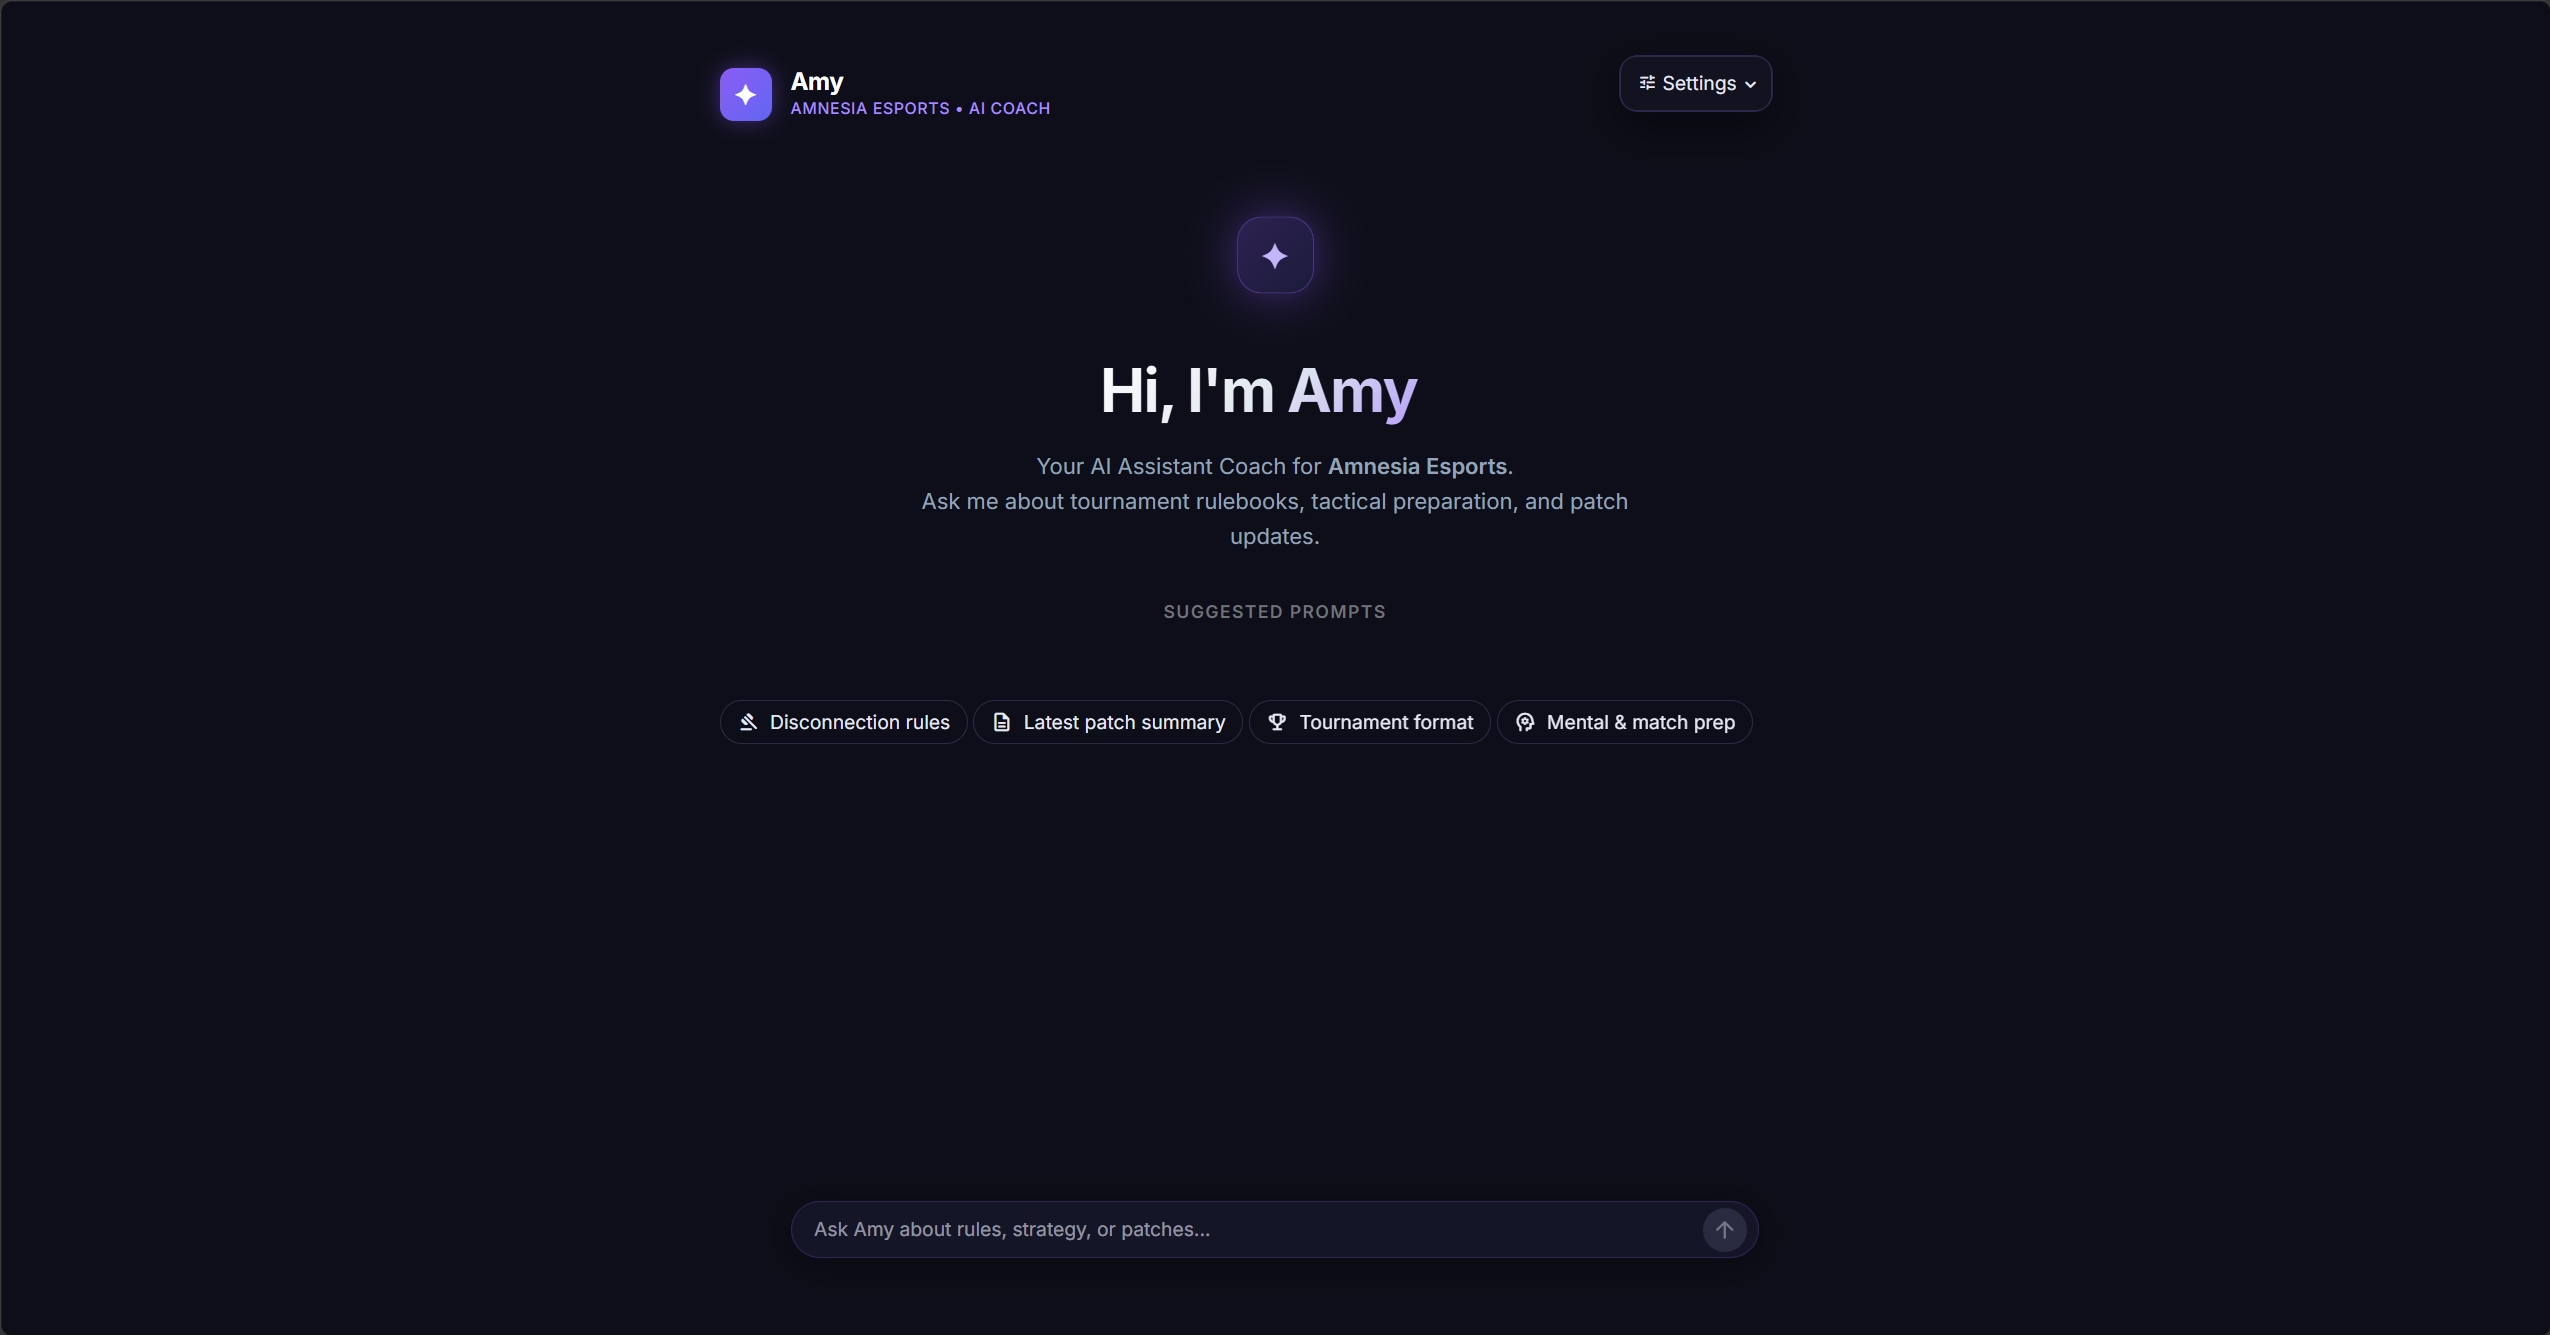
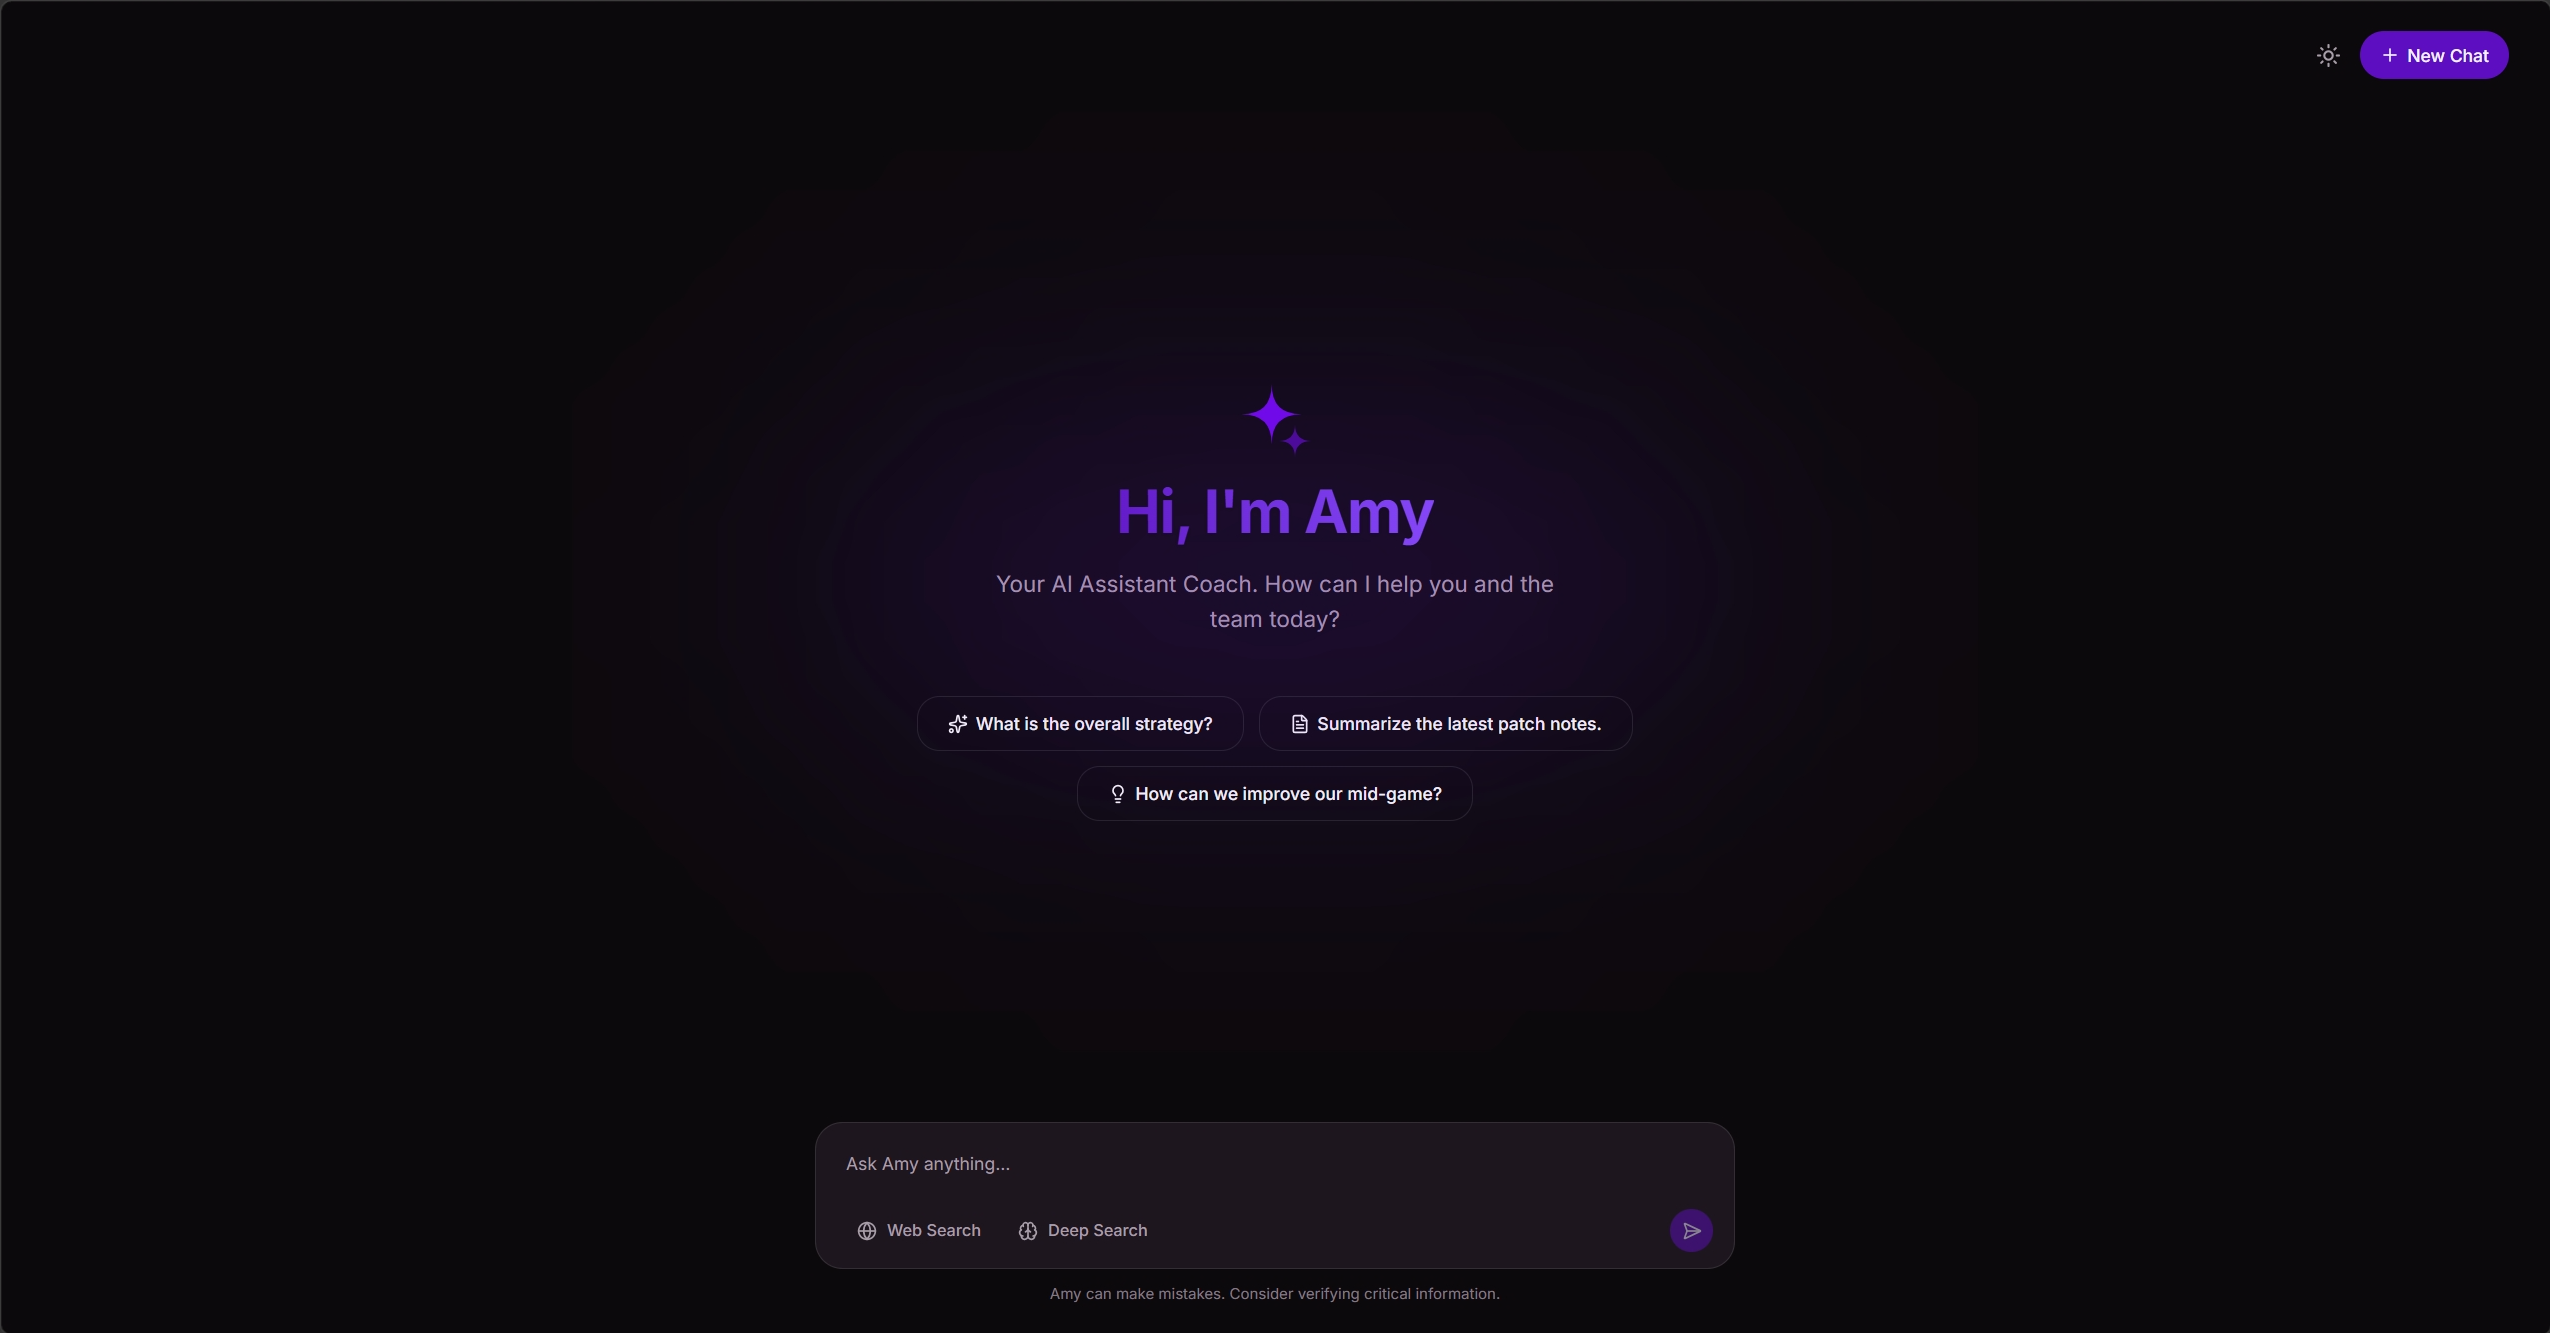
docs(readme): update documentation with new architecture and GCP deployment guide

diff --git a/README.md b/README.md
@@ -4,9 +4,9 @@
 
 Amy is an internal RAG-powered Assistant Coach for Amnesia Esports. It connects to the team's live documents (tournament rules, patch notes, tactical playbooks) and provides accurate, cited answers to help players and coaching staff prepare for competitive play.
 
-Built with **FastAPI**, **LlamaIndex**, **Streamlit**, and **Google Gemini**.
+Built with **FastAPI**, **LlamaIndex**, **React (Vite)**, and **Google Gemini**.
 
-<!-- Replace the path below with an actual screenshot of the chat interface -->
+<!-- Replace the path below with an actual screenshot of the new React chat interface -->
 ![Amy Chat Interface](docs/assets/app_screenshot.png)
 
 ---
@@ -25,12 +25,11 @@ Built with **FastAPI**, **LlamaIndex**, **Streamlit**, and **Google Gemini**.
 
 ## Features
 
-- **Retrieval-Augmented Generation (RAG)** -- Answers questions based strictly on the team's internal documents stored in a persistent vector database.
-- **Source Citations** -- Every answer includes exact references to the source files (e.g., `valorant_patch_notes_9_04.md`), making it easy to verify information.
-- **Optional Google Search Grounding** -- When enabled by the user, Amy can supplement document-based answers with live web results for questions that go beyond the local knowledge base.
-- **Esports-Tuned System Prompt** -- The assistant is configured to behave as a professional esports coach: precise, direct, and scoped exclusively to the gaming domain.
-- **Cloud-Native Architecture** -- Dockerized with a multi-stage build, ready to deploy on Google Cloud Run as a stateless, auto-scaling service.
-- **Custom Chat Interface** -- A dark-themed Streamlit frontend with SVG-based avatars, suggestion chips, typing indicators, and a responsive layout.
+- **Retrieval-Augmented Generation (RAG)** — Answers questions based strictly on the team's internal documents stored in a persistent vector database.
+- **Source Citations** — Every answer includes exact references to the source files, making it easy to verify information.
+- **Web & Deep Search Grounding** — Integrated UI toggles for live Google Search grounding and Deep Search (`top_k=15`) for extensive research.
+- **Esports-Tuned System Prompt** — The assistant is configured to behave as a professional esports coach: precise, direct, and scoped exclusively to the gaming domain.
+- **Premium User Interface** — A modern, highly polished React frontend built with Tailwind CSS, shadcn/ui, and fluid micro-interactions designed to flagship standards.
 
 ---
 
@@ -39,13 +38,12 @@ Built with **FastAPI**, **LlamaIndex**, **Streamlit**, and **Google Gemini**.
 | Layer            | Technology                                                        |
 |------------------|-------------------------------------------------------------------|
 | Backend API      | FastAPI (Python 3.11+)                                            |
-| Frontend         | Streamlit                                                         |
+| Frontend         | React 18, Vite, Tailwind CSS, shadcn/ui                           |
 | LLM              | Google Gemini 3.5 Flash Lite (via `google-genai` SDK)             |
 | Embeddings       | Google `gemini-embedding-2`                                       |
 | Web Grounding    | Native Google Search Grounding (`types.GoogleSearch`)             |
 | Vector Database  | ChromaDB (persistent local storage)                               |
 | Orchestration    | LlamaIndex                                                        |
-| Containerization | Docker, Docker Compose, Google Cloud Run                          |
 
 ---
 
@@ -53,15 +51,16 @@ Built with **FastAPI**, **LlamaIndex**, **Streamlit**, and **Google Gemini**.
 
 ### Prerequisites
 
-- Python 3.11 or higher
-- A Google AI Studio API Key -- [get one here](https://aistudio.google.com/app/apikey)
+- **Python 3.11+**
+- **Node.js 18+** (for the frontend)
+- A Google AI Studio API Key — [get one here](https://aistudio.google.com/app/apikey)
 
-### 1. Setup Environment
+### 1. Setup Backend Environment
 
 ```bash
 # Clone the repository
 git clone https://github.com/Hevial/Amy-Team-Chatbot.git
-cd amy-team-chatbot
+cd Amy-Team-Chatbot
 
 # Create and activate a virtual environment
 python -m venv .venv
@@ -80,7 +79,7 @@ Copy the example environment file and insert your API key:
 cp .env.example .env
 ```
 
-Open `.env` and set `GOOGLE_API_KEY` to the value you obtained from Google AI Studio. All other defaults are production-ready out of the box.
+Open `.env` and set `GOOGLE_API_KEY` to the value you obtained from Google AI Studio.
 
 ### 3. Ingest Documents
 
@@ -90,56 +89,56 @@ The `data/samples/` directory ships with sample rulebooks and patch notes. To ge
 python -m scripts.ingest
 ```
 
-To add new documents, place Markdown, PDF, or plain text files in `data/samples/` and re-run the command with `--clear` to rebuild the index from scratch.
+### 4. Start the Application
 
-### 4. Run the Application
+Start the backend and frontend in two separate terminal windows.
 
-Start the backend and frontend in two separate terminal windows:
-
-**FastAPI Backend:**
-
+**Terminal 1: FastAPI Backend**
 ```bash
+# Ensure your virtual environment is active
 uvicorn src.main:app --reload --port 8080
 ```
+- API Docs: `http://localhost:8080/docs`
 
-| Resource     | URL                            |
-|--------------|--------------------------------|
-| Swagger Docs | http://localhost:8080/docs      |
-| Health Check | http://localhost:8080/health    |
-
-**Streamlit Frontend:**
-
+**Terminal 2: React Frontend**
 ```bash
-streamlit run frontend/app.py --server.port 8501
+cd frontend-web
+npm install
+npm run dev
 ```
-
-| Resource        | URL                         |
-|-----------------|-----------------------------|
-| Chat Interface  | http://localhost:8501        |
+- Web App: `http://localhost:5173` (or the port specified by Vite)
 
 ---
 
 ## Running with Docker
 
-Docker Compose starts both the API and the frontend, mounting the data and chroma directories for persistence.
+This project uses a **Unified Container Architecture** (Multi-stage build). The React frontend is compiled into static files and served directly by the FastAPI backend. This is the optimal architecture for production deployments.
 
 ```bash
 # Ensure your .env file exists with the GOOGLE_API_KEY set
 docker-compose up --build
 ```
 
-| Service   | URL                                       |
-|-----------|-------------------------------------------|
-| Frontend  | [http://localhost:8501](http://localhost:8501)   |
-| API Docs  | [http://localhost:8080/docs](http://localhost:8080/docs) |
+| Service          | URL                                       |
+|------------------|-------------------------------------------|
+| Web App & API    | [http://localhost:8080](http://localhost:8080)   |
+| API Docs         | [http://localhost:8080/docs](http://localhost:8080/docs) |
 
-> **Note:** Docker copies the source code into the image at build time. If you modify Python files, you need to rebuild with `docker-compose up --build`. For rapid iteration during development, running the backend and frontend natively (see above) is recommended.
+> **Note:** Docker copies the source code into the image at build time. For rapid iteration during development, running the backend and frontend natively (see Local Development above) is recommended.
 
 ---
 
 ## Google Cloud Run Deployment
 
-This project is optimized for deployment on Google Cloud Run as a scalable, serverless container.
+This project is optimized for deployment on **Google Cloud Run** as a scalable, serverless container, leveraging **Google Cloud Build** for the CI/CD pipeline.
+
+### Why this architecture?
+This project implements a **Multi-stage Dockerfile**:
+1. **Frontend Builder**: Uses Node.js to compile the React/Vite app into highly optimized static files.
+2. **Backend Builder**: Uses Python to install all dependencies securely.
+3. **Unified Runtime**: A lightweight Python image that bundles FastAPI and the compiled React app. FastAPI serves the frontend on the root `/` path, acting as a single, stateless deployable unit. 
+
+This ensures Cloud Run only needs to manage and scale **one container** per instance, listening on `$PORT`.
 
 ### Prerequisites
 
@@ -148,55 +147,54 @@ This project is optimized for deployment on Google Cloud Run as a scalable, serv
 3. Set your project: `gcloud config set project YOUR_PROJECT_ID`
 4. Enable Secret Manager and Cloud Build APIs in your GCP console.
 
-### Deploy
+### CI/CD Deployment (Recommended)
 
-Use the included deployment scripts:
+This project uses `cloudbuild.yaml` to define a professional Continuous Deployment pipeline directly from GitHub.
+
+1. Create an **Artifact Registry** repository (e.g., `amnesia-repo`) in your preferred region.
+2. Store your Google AI Studio API Key in **Secret Manager** as `google_api_key`.
+3. Open `cloudbuild.yaml` and update the `substitutions` block at the bottom to match your repository name, service name, and region.
+4. In the GCP Console, go to **Cloud Run** -> **Create Service**.
+5. Select **Continuously deploy from a repository**, connect your GitHub repo, and choose **Cloud Build (cloudbuild.yaml)** as the build type.
+
+Every `git push` will now automatically trigger Cloud Build, compile the multi-stage Dockerfile, and update the Cloud Run service with zero downtime.
+
+### Alternative: Manual Deployment
+
+If you prefer to deploy manually from your local machine without GitHub integration, use the included deployment scripts:
 
 **Windows (PowerShell):**
-
 ```powershell
 .\deploy_gcp.ps1
 ```
 
 **Linux / macOS:**
-
 ```bash
-chmod +x deploy_gcp.sh
 ./deploy_gcp.sh
 ```
 
-The scripts will:
-
-1. Build the multi-stage Docker image via Google Cloud Build.
-2. Push it to Artifact Registry.
-3. Deploy a stateless Cloud Run service using the `$PORT` environment variable.
-4. Pass the required LLM and embedding model settings.
+These scripts use `gcloud run deploy --source .` to automatically trigger a Cloud Build job from your local files.
 
 ---
 
 ## Project Structure
 
 ```text
-amy-team-chatbot/
-|-- data/                      Source documents (Markdown, PDFs, etc.)
-|   +-- samples/               Demo files (Valorant rules, patch notes)
-|-- chroma_db/                 Local vector database storage (git-ignored)
-|-- frontend/
-|   +-- app.py                 Streamlit chat interface
-|-- scripts/
-|   +-- ingest.py              Document embedding and ingestion pipeline
-|-- src/
-|   |-- __init__.py            Package metadata and version
-|   |-- config.py              Pydantic settings and environment management
-|   |-- engine.py              Hybrid RAG engine (ChromaDB + Google Search)
-|   |-- main.py                FastAPI application and endpoint definitions
-|   +-- models.py              Pydantic schemas for API request/response validation
-|-- .env.example               Environment variables template
-|-- .streamlit/config.toml     Streamlit theme and client configuration
-|-- docker-compose.yml         Local multi-container setup
-|-- Dockerfile                 Multi-stage build optimized for Cloud Run
-|-- requirements.txt           Production dependencies
-+-- requirements-dev.txt       Development dependencies (ruff, testing)
+Amy-Team-Chatbot/
+├── data/                      Source documents (Markdown, PDFs, etc.)
+│   └── samples/               Demo files (Valorant rules, patch notes)
+├── chroma_db/                 Local vector database storage
+├── frontend-web/              Modern React UI (Vite + Tailwind + shadcn/ui)
+│   ├── src/                   React components, hooks, and API client
+│   └── package.json           Node dependencies
+├── scripts/
+│   └── ingest.py              Document embedding and ingestion pipeline
+├── src/
+│   ├── config.py              Pydantic settings
+│   ├── engine.py              Hybrid RAG engine (ChromaDB + Google Search)
+│   ├── main.py                FastAPI application
+│   └── models.py              Pydantic schemas
+└── requirements.txt           Backend dependencies
 ```
 
 ---
@@ -205,13 +203,6 @@ amy-team-chatbot/
 
 This project enforces strict engineering standards:
 
-- **Linting and Formatting** -- Enforced using [Ruff](https://docs.astral.sh/ruff/).
-- **Git History** -- Follows [Conventional Commits](https://www.conventionalcommits.org/).
-- **Type Safety** -- Strict Python type hints and Pydantic validation on all boundaries.
-
-To run the linter and formatter:
-
-```bash
-ruff check src/ scripts/ frontend/
-ruff format src/ scripts/ frontend/
-```
+- **Linting and Formatting**: Enforced using [Ruff](https://docs.astral.sh/ruff/) for Python and ESLint/Prettier for TypeScript.
+- **Git History**: Follows [Conventional Commits](https://www.conventionalcommits.org/).
+- **Type Safety**: Strict Python type hints (Pydantic) and TypeScript interfaces on all boundaries.
